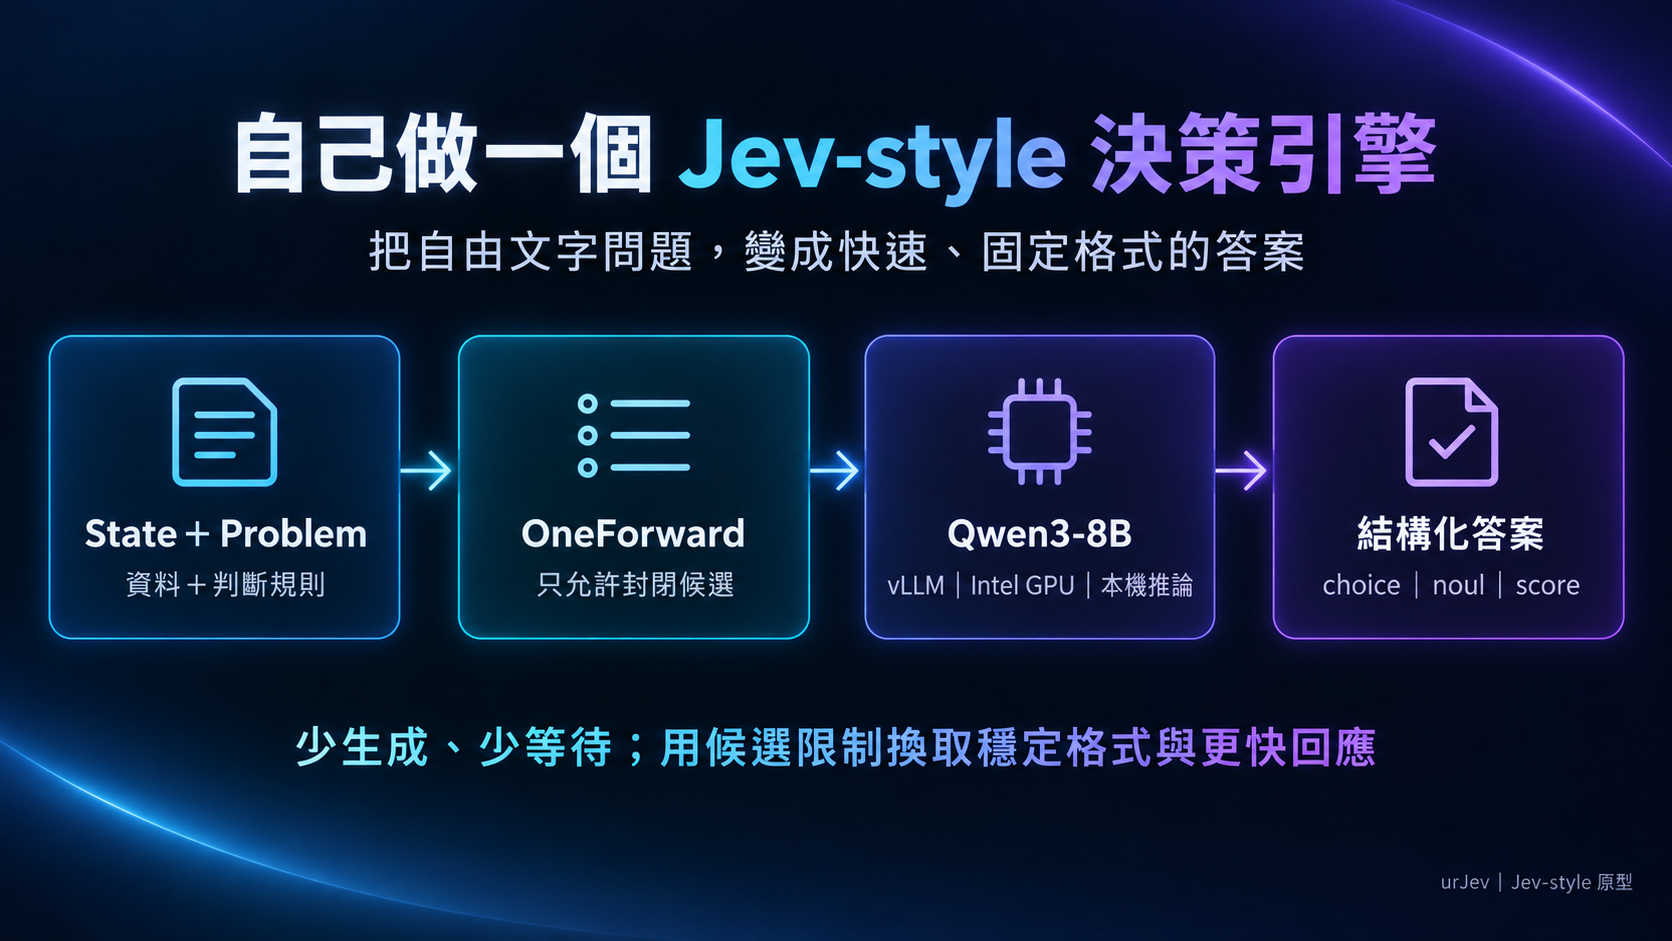
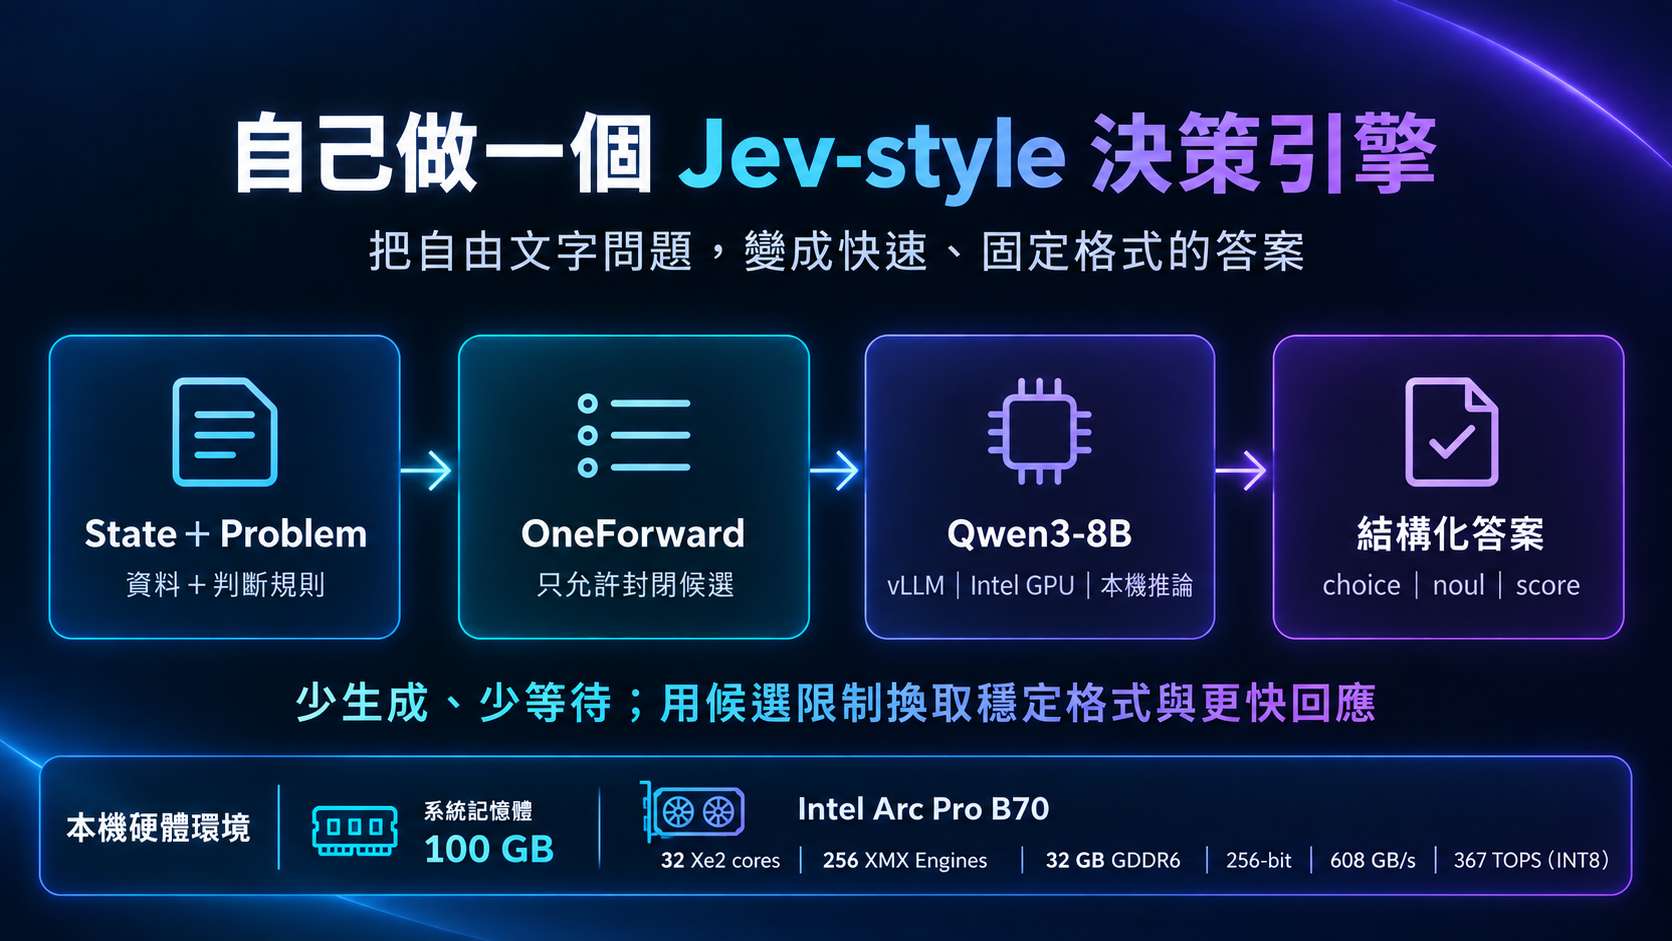
Add hardware specs to urJev overview

diff --git a/docs/final-system-architecture.md b/docs/final-system-architecture.md
@@ -20,13 +20,16 @@ urJev 是本機的 Jev-style 結構化判斷原型。輸入由兩部分組成：
 | 層級 | 目前配置 | 用途與限制 |
 |---|---|---|
 | 主機 | Windows | 執行 Node.js、PowerShell 啟動器、瀏覽器與 Cloudflare Tunnel |
+| 系統記憶體 | 100 GB RAM | 提供 Windows、WSL2、Node.js、vLLM 輔助資料與大型拼圖搜尋使用；與 GPU 的 32 GB VRAM 分開計算 |
 | Linux 執行環境 | Ubuntu 26.04／WSL2，kernel `6.18.33.2-microsoft-standard-WSL2` | 執行 Python、PyTorch XPU 與 vLLM |
-| GPU | Intel Arc Pro B70 | 本機模型推論 |
-| 顯示記憶體 | 32 GB VRAM | Qwen3-8B BF16 實測約占 15.27 GiB，另固定 2 GiB KV cache；32 GB 提供載入與執行空間，不會自動提升模型準確率 |
+| GPU | Intel Arc Pro B70，Xe2 架構 | 32 Xe cores、256 XMX Engines、32 Ray Tracing Units；本機模型推論 |
+| GPU AI／運算 | 367 TOPS（INT8）、22.94 TFLOPS（FP32） | Intel 標稱峰值；不等於本專案的實際模型吞吐量 |
+| 顯示記憶體 | 32 GB GDDR6、256-bit、支援 ECC | Qwen3-8B BF16 實測約占 15.27 GiB，另固定 2 GiB KV cache；32 GB 提供載入與執行空間，不會自動提升模型準確率 |
 | 顯存頻寬 | 608 GB/s（Intel 標稱） | 影響逐 Token 權重與 KV cache 搬移；完整延遲仍包含提示處理、計算、排程與應用層時間 |
+| GPU 介面／功耗 | PCIe 5.0 x16、TBP 230 W | Intel 參考規格；合作夥伴卡的實際散熱與功率設定可能不同 |
 | Windows 顯示驅動 | `32.0.101.8804` | 本機已驗證版本 |
 
-CPU 型號與系統 RAM 並未固定在專案設定中，因此不列為可重現規格。主要硬體限制是 Intel XPU 相容性、可用 VRAM 回報與顯存頻寬。
+上述 GPU 數值依 [Intel Arc Pro B70 官方規格](https://www.intel.com/content/www/us/en/products/sku/245797/intel-arc-pro-b70-graphics/specifications.html)整理。CPU 型號並未固定在專案設定中，因此不列為可重現規格。主要硬體限制是 Intel XPU 相容性、可用 VRAM 回報與顯存頻寬。
 
 ## 3. 最終軟體配置
 

diff --git a/README.md b/README.md
@@ -14,7 +14,9 @@
 |---|---|
 | 模型 | `Qwen/Qwen3-8B`，BF16（目前 `.env`）；安裝範本仍預設 4B |
 | 推論引擎 | vLLM XPU，官方預覽版 |
-| 已驗證環境 | Intel Arc Pro B70 32 GB、Windows＋Ubuntu 26.04／WSL2 |
+| 系統記憶體 | 100 GB RAM |
+| 已驗證 GPU | Intel Arc Pro B70：32 GB GDDR6、256-bit、608 GB/s、256 XMX Engines、367 TOPS（INT8） |
+| 作業環境 | Windows＋Ubuntu 26.04／WSL2 |
 | Playground | http://127.0.0.1:15413/ |
 | 模型 API | http://127.0.0.1:18000/ |
 | 排程 | 非同步排程、最多八題並行、prefix cache |
